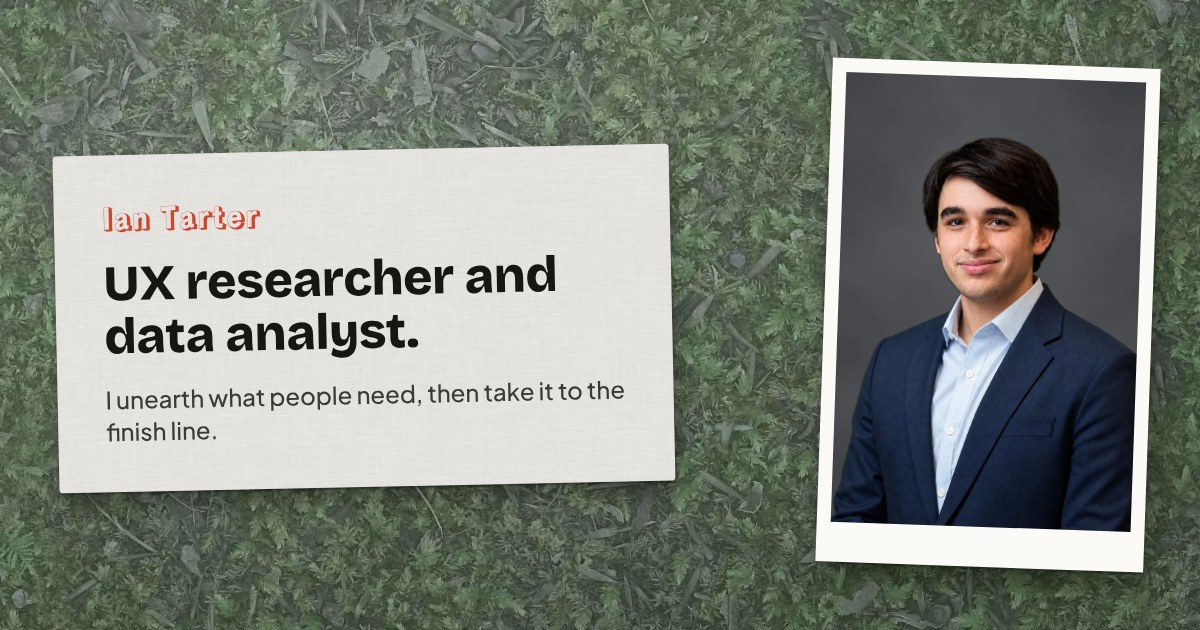
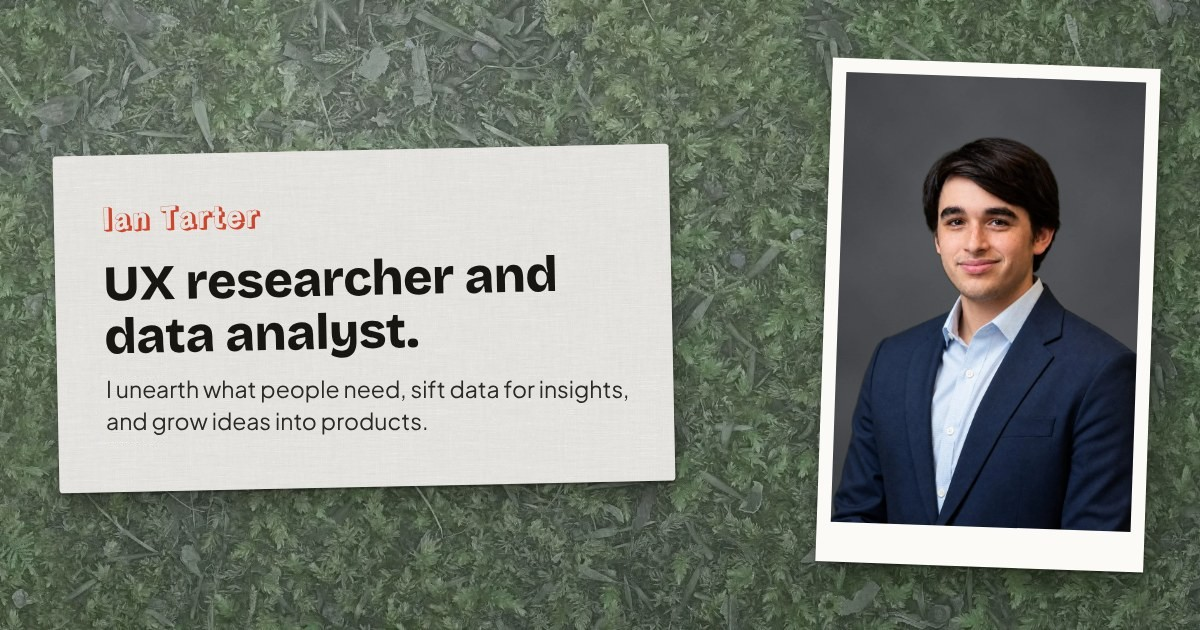
Homepage: clearer career copy, phone badge fit, skills card lines (#25)
* Homepage copy: concrete tagline, accomplishment-first About and Experience lines

Tagline now links research, data and evidence-based decisions. About and
Experience lead with outcomes already on record (300+ participants, Kyoto
full study, Monte Carlo simulation). Trimmed redundant wording. Case-study
pages untouched.

Claude-Session: https://claude.ai/code/session_01PnSu5yoinqYPUHPg7qkA5p

* Homepage copy: restore every task Ian listed; add new facts only beside them

Claude-Session: https://claude.ai/code/session_01PnSu5yoinqYPUHPg7qkA5p

* Homepage copy: Ian's answers (Yale, conflict-minimizing staffing model, working My Offset); tighter About

Claude-Session: https://claude.ai/code/session_01PnSu5yoinqYPUHPg7qkA5p

* Phone ID badges: tighter insides so full Experience lines fit at 360px and up

Same CR80 badge shape; smaller band and text padding under 460px wide.

Claude-Session: https://claude.ai/code/session_01PnSu5yoinqYPUHPg7qkA5p

* Hero tagline: unearth, sift, grow (Ian's wording)

Claude-Session: https://claude.ai/code/session_01PnSu5yoinqYPUHPg7qkA5p

* Share image: new tagline (unearth, sift, grow)

Claude-Session: https://claude.ai/code/session_01PnSu5yoinqYPUHPg7qkA5p

* Hero line 1: UX researcher and data analyst.

Claude-Session: https://claude.ai/code/session_01PnSu5yoinqYPUHPg7qkA5p

* About: drop facts the Experience badges already show

Claude-Session: https://claude.ai/code/session_01PnSu5yoinqYPUHPg7qkA5p
[…]

Changed region(s): [[0.0925, 0.6032, 0.5242, 0.7238]]

diff --git a/index.html b/index.html
@@ -4,13 +4,13 @@
 <meta charset="utf-8">
 <meta name="viewport" content="width=device-width, initial-scale=1">
 <title>Ian Tarter: UX Researcher and Data Analyst</title>
-<meta name="description" content="UX researcher and data analyst. I unearth what people need, then take it to the finish line. Open to full-time UX research and data roles, fall 2027.">
+<meta name="description" content="UX researcher and data analyst. I unearth what people need, sift data for insights, and grow ideas into products. Open to full-time UX research and data roles, fall 2027.">
 <link rel="canonical" href="https://iantarter.com/">
 <meta property="og:type" content="website">
 <meta property="og:title" content="Ian Tarter">
-<meta property="og:description" content="UX researcher and data analyst. I unearth what people need, then take it to the finish line. Open to full-time UX research and data roles, fall 2027.">
+<meta property="og:description" content="UX researcher and data analyst. I unearth what people need, sift data for insights, and grow ideas into products. Open to full-time UX research and data roles, fall 2027.">
 <meta property="og:url" content="https://iantarter.com/">
-<meta property="og:image" content="https://iantarter.com/assets/img/og/og-home.jpg">
+<meta property="og:image" content="https://iantarter.com/assets/img/og/og-home.jpg?v=3">
 <meta property="og:image:width" content="1200">
 <meta property="og:image:height" content="630">
 <meta name="twitter:card" content="summary_large_image">
@@ -22,7 +22,7 @@
 <link rel="preconnect" href="https://fonts.gstatic.com" crossorigin>
 <link rel="stylesheet" href="https://fonts.googleapis.com/css2?family=Bricolage+Grotesque:opsz,wght@12..96,300..800&family=Plus+Jakarta+Sans:ital,wght@0,300..800;1,300..800&family=Rampart+One&display=swap">
 <link rel="stylesheet" href="assets/site.css?v=20261013u">
-<link rel="stylesheet" href="assets/dir-i.css?v=20261109d">
+<link rel="stylesheet" href="assets/dir-i.css?v=20261111a">
 <!-- the ground fetched first, so it is usually there for the first frame -->
 <link rel="preload" as="image" href="assets/tex/moss-quiet-2k.webp" fetchpriority="high">
 <link rel="preload" as="image" href="assets/tex/canopy-shade-L.webp" fetchpriority="high">
@@ -83,21 +83,21 @@
 <main class="i-scene" id="main">
  <section class="s-hero i-hero">
   <div class="i-name lay lay-name"><h1 class="font-wait">Ian Tarter</h1></div>
-  <article class="card lay c-intro"><div class="cf"><p class="c-pitch"><span class="c-role">UX researcher, data analyst.</span> <span class="c-tag">I unearth what people need, then take it to the finish line.</span></p><div class="s-actions"><a class="s-btn primary" href="resume.pdf">View my resume</a><a class="s-btn" href="mailto:itsian123@gmail.com">Email me</a></div></div></article>
+  <article class="card lay c-intro"><div class="cf"><p class="c-pitch"><span class="c-role">UX researcher and data analyst.</span> <span class="c-tag">I unearth what people need, sift data for insights,<br> <span style="white-space:nowrap">and grow ideas into products.</span></span></p><div class="s-actions"><a class="s-btn primary" href="resume.pdf">View my resume</a><a class="s-btn" href="mailto:itsian123@gmail.com">Email me</a></div></div></article>
   <article class="card lay c-me"><div class="cf"><div class="c-art art-me"><img src="assets/img/headshot.webp?v=3" alt="Ian Tarter"></div><p class="c-name">Ian Tarter</p><p class="c-type">Carnegie Mellon MHCI, 2027</p></div></article>
  </section>
  
  <h2 class="i-label" id="work">Case studies</h2>
  <section class="i-row i-cases"><div class="phone floor-phone no-grass lay" role="img" aria-label="The EXACT app measuring a vertical jump"><img src="assets/img/exact-capture-vertical-jump.webp" alt=""></div>
-  <article class="case k1 d-phone"><div class="cf"><p class="c-type">EXACT Sports, 2026</p><h3><a class="c-link" href="work/exact-sports/">Reimagining the Combine</a></h3><p class="c-text">How interviews with coaches helped me build an AR app that replaces pen-and-paper testing at athletic events.</p><a class="c-more" href="work/exact-sports/" tabindex="-1" aria-hidden="true">Read the case study</a><ul class="c-tokens" aria-label="Methods"><li><svg viewBox="0 0 24 24" aria-hidden="true" focusable="false"><path d="M3 5h12v8H8l-4 3v-3H3z" fill="none" stroke="currentColor" stroke-width="2" stroke-linecap="round" stroke-linejoin="round"/><path d="M17 9h4v8h-1v3l-4-3h-5v-2" fill="none" stroke="currentColor" stroke-width="2" stroke-linecap="round" stroke-linejoin="round"/></svg><span>Coach interviews</span></li><li><svg viewBox="0 0 24 24" aria-hidden="true" focusable="false"><rect x="6" y="2" width="12" height="20" rx="2" fill="none" stroke="currentColor" stroke-width="2" stroke-linecap="round" stroke-linejoin="round"/><path d="M9 9l2 2 4-4M10 18h4" fill="none" stroke="currentColor" stroke-width="2" stroke-linecap="round" stroke-linejoin="round"/></svg><span>iOS + AR build</span></li><li><svg viewBox="0 0 24 24" aria-hidden="true" focusable="false"><circle cx="11" cy="11" r="7" fill="none" stroke="currentColor" stroke-width="2" stroke-linecap="round" stroke-linejoin="round"/><path d="M16 16l5 5M8 11l2 2 4-4" fill="none" stroke="currentColor" stroke-width="2" stroke-linecap="round" stroke-linejoin="round"/></svg><span>Usability tests</span></li></ul></div></article>
-  <article class="card lay case k2 d-sheet"><div class="cf"><div class="c-art art-lab c-deck"><img src="assets/img/cards/dialect-work-sheet.webp" alt="Workshop prompt sheet: Work. How does our workload shape who we are? What do our conversations at the workplace look like? Each question is also written in Japanese." width="939" height="574" loading="eager" decoding="async"></div><p class="c-type">Embodied Cognition Lab, 2025–26</p><h3><a class="c-link" href="work/embodied-cognition/">An Unorthodox Approach to Language Learning</a></h3><p class="c-text">How I worked to help design and pilot a role-playing workshop to help language learners get comfortable making mistakes.</p><a class="c-more" href="work/embodied-cognition/" tabindex="-1" aria-hidden="true">Read the case study</a><ul class="c-tokens" aria-label="Methods"><li><svg viewBox="0 0 24 24" aria-hidden="true" focusable="false"><circle cx="12" cy="12" r="5" fill="none" stroke="currentColor" stroke-width="2" stroke-linecap="round" stroke-linejoin="round"/><circle cx="12" cy="3.5" r="1.8" fill="none" stroke="currentColor" stroke-width="2" stroke-linecap="round" stroke-linejoin="round"/><circle cx="12" cy="20.5" r="1.8" fill="none" stroke="currentColor" stroke-width="2" stroke-linecap="round" stroke-linejoin="round"/><circle cx="3.5" cy="12" r="1.8" fill="none" stroke="currentColor" stroke-width="2" stroke-linecap="round" stroke-linejoin="round"/><circle cx="20.5" cy="12" r="1.8" fill="none" stroke="currentColor" stroke-width="2" stroke-linecap="round" stroke-linejoin="round"/></svg><span>Workshop design</span></li><li><svg viewBox="0 0 24 24" aria-hidden="true" focusable="false"><rect x="4" y="3" width="16" height="18" rx="2" fill="none" stroke="currentColor" stroke-width="2" stroke-linecap="round" stroke-linejoin="round"/><path d="M7 8l1.5 1.5L11 7M7 14l1.5 1.5L11 13M13 8.5h4M13 14.5h4" fill="none" stroke="currentColor" stroke-width="2" stroke-linecap="round" stroke-linejoin="round"/></svg><span>Pre/post surveys</span></li><li><svg viewBox="0 0 24 24" aria-hidden="true" focusable="false"><path d="M5 21V4M5 4h12l-3 4 3 4H5" fill="none" stroke="currentColor" stroke-width="2" stroke-linecap="round" stroke-linejoin="round"/></svg><span>Pilot study</span></li></ul></div></article>
-  <article class="card lay case k3 d-fig"><div class="cf"><div class="c-art art-birds c-deck"><img src="assets/img/cards/birds-felt-understanding.webp" alt="Chart: felt understanding when facing sexual minority stress is higher when the close other also identifies as a sexual minority." width="558" height="519" loading="eager" decoding="async"></div><p class="c-type">BIRDS Lab, 2025–26</p><h3><a class="c-link" href="work/birds-lab/">Unpacking Allyship</a></h3><p class="c-text">What I took away from analyzing and running studies about the nature of how to best help people recovering from minority stress.</p><a class="c-more" href="work/birds-lab/" tabindex="-1" aria-hidden="true">Read the case study</a><ul class="c-tokens" aria-label="Methods"><li><svg viewBox="0 0 24 24" aria-hidden="true" focusable="false"><path d="M4 20l4-1 11-11-3-3L5 16z" fill="none" stroke="currentColor" stroke-width="2" stroke-linecap="round" stroke-linejoin="round"/><path d="M14 7l3 3" fill="none" stroke="currentColor" stroke-width="2" stroke-linecap="round" stroke-linejoin="round"/></svg><span>Survey build</span></li><li><svg viewBox="0 0 24 24" aria-hidden="true" focusable="false"><path d="M4 5h16M4 10h10M4 15h13M4 20h8" fill="none" stroke="currentColor" stroke-width="2" stroke-linecap="round" stroke-linejoin="round"/><path d="M15 9h6v3h-6z" fill="currentColor" stroke="none" opacity=".55"/></svg><span>Qual coding</span></li><li><svg viewBox="0 0 24 24" aria-hidden="true" focusable="false"><path d="M4 20h16M7 20v-6M12 20V8M17 20v-9" fill="none" stroke="currentColor" stroke-width="2" stroke-linecap="round" stroke-linejoin="round"/></svg><span>Data viz</span></li></ul></div></article>
+  <article class="case k1 d-phone"><div class="cf"><p class="c-type">EXACT Sports, 2026</p><h3><a class="c-link" href="work/exact-sports/">Reimagining the Combine</a></h3><p class="c-text">How interviews with coaches shaped the AR app I built to replace pen-and-paper testing at athletic events, now in beta.</p><a class="c-more" href="work/exact-sports/" tabindex="-1" aria-hidden="true">Read the case study</a><ul class="c-tokens" aria-label="Methods"><li><svg viewBox="0 0 24 24" aria-hidden="true" focusable="false"><path d="M3 5h12v8H8l-4 3v-3H3z" fill="none" stroke="currentColor" stroke-width="2" stroke-linecap="round" stroke-linejoin="round"/><path d="M17 9h4v8h-1v3l-4-3h-5v-2" fill="none" stroke="currentColor" stroke-width="2" stroke-linecap="round" stroke-linejoin="round"/></svg><span>Coach interviews</span></li><li><svg viewBox="0 0 24 24" aria-hidden="true" focusable="false"><rect x="6" y="2" width="12" height="20" rx="2" fill="none" stroke="currentColor" stroke-width="2" stroke-linecap="round" stroke-linejoin="round"/><path d="M9 9l2 2 4-4M10 18h4" fill="none" stroke="currentColor" stroke-width="2" stroke-linecap="round" stroke-linejoin="round"/></svg><span>iOS + AR build</span></li><li><svg viewBox="0 0 24 24" aria-hidden="true" focusable="false"><circle cx="11" cy="11" r="7" fill="none" stroke="currentColor" stroke-width="2" stroke-linecap="round" stroke-linejoin="round"/><path d="M16 16l5 5M8 11l2 2 4-4" fill="none" stroke="currentColor" stroke-width="2" stroke-linecap="round" stroke-linejoin="round"/></svg><span>Usability tests</span></li></ul></div></article>
+  <article class="card lay case k2 d-sheet"><div class="cf"><div class="c-art art-lab c-deck"><img src="assets/img/cards/dialect-work-sheet.webp" alt="Workshop prompt sheet: Work. How does our workload shape who we are? What do our conversations at the workplace look like? Each question is also written in Japanese." width="939" height="574" loading="eager" decoding="async"></div><p class="c-type">Embodied Cognition Lab, 2025–26</p><h3><a class="c-link" href="work/embodied-cognition/">An Unorthodox Approach to Language Learning</a></h3><p class="c-text">How I helped design and pilot a role-playing workshop that gets language learners comfortable making mistakes, since run as a full study by a Kyoto University lab.</p><a class="c-more" href="work/embodied-cognition/" tabindex="-1" aria-hidden="true">Read the case study</a><ul class="c-tokens" aria-label="Methods"><li><svg viewBox="0 0 24 24" aria-hidden="true" focusable="false"><circle cx="12" cy="12" r="5" fill="none" stroke="currentColor" stroke-width="2" stroke-linecap="round" stroke-linejoin="round"/><circle cx="12" cy="3.5" r="1.8" fill="none" stroke="currentColor" stroke-width="2" stroke-linecap="round" stroke-linejoin="round"/><circle cx="12" cy="20.5" r="1.8" fill="none" stroke="currentColor" stroke-width="2" stroke-linecap="round" stroke-linejoin="round"/><circle cx="3.5" cy="12" r="1.8" fill="none" stroke="currentColor" stroke-width="2" stroke-linecap="round" stroke-linejoin="round"/><circle cx="20.5" cy="12" r="1.8" fill="none" stroke="currentColor" stroke-width="2" stroke-linecap="round" stroke-linejoin="round"/></svg><span>Workshop design</span></li><li><svg viewBox="0 0 24 24" aria-hidden="true" focusable="false"><rect x="4" y="3" width="16" height="18" rx="2" fill="none" stroke="currentColor" stroke-width="2" stroke-linecap="round" stroke-linejoin="round"/><path d="M7 8l1.5 1.5L11 7M7 14l1.5 1.5L11 13M13 8.5h4M13 14.5h4" fill="none" stroke="currentColor" stroke-width="2" stroke-linecap="round" stroke-linejoin="round"/></svg><span>Pre/post surveys</span></li><li><svg viewBox="0 0 24 24" aria-hidden="true" focusable="false"><path d="M5 21V4M5 4h12l-3 4 3 4H5" fill="none" stroke="currentColor" stroke-width="2" stroke-linecap="round" stroke-linejoin="round"/></svg><span>Pilot study</span></li></ul></div></article>
+  <article class="card lay case k3 d-fig"><div class="cf"><div class="c-art art-birds c-deck"><img src="assets/img/cards/birds-felt-understanding.webp" alt="Chart: felt understanding when facing sexual minority stress is higher when the close other also identifies as a sexual minority." width="558" height="519" loading="eager" decoding="async"></div><p class="c-type">BIRDS Lab, 2025–26</p><h3><a class="c-link" href="work/birds-lab/">Unpacking Allyship</a></h3><p class="c-text">What I took away from analyzing and running studies of 300+ people on how best to support someone facing minority stress.</p><a class="c-more" href="work/birds-lab/" tabindex="-1" aria-hidden="true">Read the case study</a><ul class="c-tokens" aria-label="Methods"><li><svg viewBox="0 0 24 24" aria-hidden="true" focusable="false"><path d="M4 20l4-1 11-11-3-3L5 16z" fill="none" stroke="currentColor" stroke-width="2" stroke-linecap="round" stroke-linejoin="round"/><path d="M14 7l3 3" fill="none" stroke="currentColor" stroke-width="2" stroke-linecap="round" stroke-linejoin="round"/></svg><span>Survey build</span></li><li><svg viewBox="0 0 24 24" aria-hidden="true" focusable="false"><path d="M4 5h16M4 10h10M4 15h13M4 20h8" fill="none" stroke="currentColor" stroke-width="2" stroke-linecap="round" stroke-linejoin="round"/><path d="M15 9h6v3h-6z" fill="currentColor" stroke="none" opacity=".55"/></svg><span>Qual coding</span></li><li><svg viewBox="0 0 24 24" aria-hidden="true" focusable="false"><path d="M4 20h16M7 20v-6M12 20V8M17 20v-9" fill="none" stroke="currentColor" stroke-width="2" stroke-linecap="round" stroke-linejoin="round"/></svg><span>Data viz</span></li></ul></div></article>
   <article class="card lay case k4 d-fig d-cap"><div class="cf"><div class="c-art c-deck"><img src="assets/img/cards/capstone-fun-by-trial.webp" alt="Chart from my capstone: fun ratings across three trials of rock-paper-scissors, shown separately for the Average, High and Increasing conditions." width="656" height="468" loading="eager" decoding="async"></div><h3><a class="c-link" href="work/having-fun/">Beyond Predictive Processing in Play</a></h3><a class="c-more" href="work/having-fun/" tabindex="-1" aria-hidden="true">Read the case study</a><ul class="c-tokens" aria-label="Methods"><li><span>Literature review</span></li><li><span>Controlled experiment</span></li><li><span>Bayesian analysis</span></li></ul></div></article>
   <article class="card lay case k5 d-fig d-aff"><div class="cf"><div class="c-art c-deck"><img src="assets/img/cards/bias-affinity.webp" alt="Affinity diagram from Figma: notes grouped under Regulation and frameworks, Risk detection, Bias and unfairness, Opaque data, Human with AI, What AI is bad at, and Human error, rolling up into two insights about human and AI error." width="605" height="540" loading="eager" decoding="async"></div><h3><a class="c-link" href="work/prompt-bias/">Mitigating AI Prompt Bias</a></h3><a class="c-more" href="work/prompt-bias/" tabindex="-1" aria-hidden="true">Read the case study</a><ul class="c-tokens" aria-label="Methods"><li><span>Affinity diagramming</span></li><li><span>Usability testing</span></li><li><span>Interviews</span></li></ul></div></article>
  </section>
  <h2 class="i-label" id="about">About</h2>
- <section class="i-row i-about"><article class="card lay c-about"><div class="cf"><p class="c-text">I'm finishing Carnegie Mellon's Master of Human-Computer Interaction in August 2027. Before that, I studied Cognitive Science at Carleton College, with a minor in Data Science and Statistics. I worked in three labs there, immersing myself in research about embodied cognition, relationship science, linguistics, and produced several studies and papers in collaboration with researchers from Kyoto University, Northwestern, University of Chicago, Wellesley, and Carleton College.</p><p class="c-text">I have also been designing board games for over a decade. My first game with a publisher, <i>The Daily Weather</i> from Button Shy Games, raised over $29,000 from 1,800+ backers on Kickstarter.</p><p class="c-text c-now"><b>Currently:</b> Building My Offset, a tool to mitigate environmental harm.<br>Also collaborating to build products that respond to AI harm, better track airport systems, and mitigate bias in first-time managers.</p></div></article></section><h2 class="i-label" id="exp">Experience</h2>
- <section class="i-row i-jobs"><article class="card lay job j1"><div class="cf"><p class="c-type">Summer 2026</p><h3>UX Engineer Intern</h3><p class="c-org">EXACT Sports</p><p class="c-text">Field research with coaches, then designed, built and tested an iPhone app that measures athletes with AR and computer vision.</p></div></article><article class="card lay job j2"><div class="cf"><p class="c-type">Summer 2026</p><h3>UX Intern</h3><p class="c-org">SayKid</p><p class="c-text">Designed, tested and built voice apps in Voiceflow for ToyBot, a learning toy that kids can have a conversation with.</p></div></article><article class="card lay job j3"><div class="cf"><p class="c-type">2025–26</p><h3>Research Assistant</h3><p class="c-org">BIRDS Lab</p><p class="c-text">Analyzed, designed, ran, and wrote about studies covering relationship science, with a focus on LGBTQ+ experience.</p></div></article><article class="card lay job j4"><div class="cf"><p class="c-type">2025–26</p><h3>Research Assistant</h3><p class="c-org">Embodied Cognition Lab</p><p class="c-text">Helped design a role-playing language workshop, ran pilots, led their feedback sessions, co-wrote research papers.</p></div></article><article class="card lay job j5"><div class="cf"><p class="c-type">2024–25</p><h3>R&amp;D Intern</h3><p class="c-org">WizKids</p><p class="c-text">Evaluated sell sheets, produced manufacturing spreadsheets, built company reports, prototyped and playtested upcoming products.</p></div></article><article class="card lay job j6"><div class="cf"><p class="c-type">Summer 2024</p><h3>Data &amp; Operations Intern</h3><p class="c-org">EXACT Sports</p><p class="c-text">Built a model to staff hundreds of camps, and found the recruiting channels behind a 13% rise in enrollment.</p></div></article></section>
+ <section class="i-row i-about"><article class="card lay c-about"><div class="cf"><p class="c-text">I'm finishing Carnegie Mellon's Master of Human-Computer Interaction in August 2027. Before that, I studied Cognitive Science at Carleton College, with a minor in Data Science and Statistics, and worked in three labs, contributing to several papers now in progress with researchers from Kyoto University, Northwestern, University of Chicago, Wellesley, Yale, and Carleton College.</p><p class="c-text">I have also been designing board games for over a decade. My first game with a publisher, <i>The Daily Weather</i> from Button Shy Games, raised over $29,000 from 1,800+ backers on Kickstarter.</p><p class="c-text c-now"><b>Currently:</b> Building My Offset, a working tool to mitigate environmental harm.<br>Also collaborating to build products that respond to AI harm, better track airport systems, and mitigate bias in first-time managers.</p></div></article></section><h2 class="i-label" id="exp">Experience</h2>
+ <section class="i-row i-jobs"><article class="card lay job j1"><div class="cf"><p class="c-type">Summer 2026</p><h3>UX Engineer Intern</h3><p class="c-org">EXACT Sports</p><p class="c-text">Field research with coaches, then designed, built and tested an iPhone app that measures athletes with AR and computer vision.</p></div></article><article class="card lay job j2"><div class="cf"><p class="c-type">Summer 2026</p><h3>UX Intern</h3><p class="c-org">SayKid</p><p class="c-text">Designed, tested and built voice apps in Voiceflow for ToyBot, a learning toy that kids can have a conversation with.</p></div></article><article class="card lay job j3"><div class="cf"><p class="c-type">2025–26</p><h3>Research Assistant</h3><p class="c-org">BIRDS Lab</p><p class="c-text">Analyzed, designed, ran, and wrote about studies of 300+ people covering relationship science, with a focus on LGBTQ+ experience.</p></div></article><article class="card lay job j4"><div class="cf"><p class="c-type">2025–26</p><h3>Research Assistant</h3><p class="c-org">Embodied Cognition Lab</p><p class="c-text">Helped design a role-playing language workshop, ran two pilots, led their feedback sessions, co-wrote research papers.</p></div></article><article class="card lay job j5"><div class="cf"><p class="c-type">2024–25</p><h3>R&amp;D Intern</h3><p class="c-org">WizKids</p><p class="c-text">Evaluated sell sheets, produced manufacturing spreadsheets, built company reports, prototyped and playtested upcoming products.</p></div></article><article class="card lay job j6"><div class="cf"><p class="c-type">Summer 2024</p><h3>Data &amp; Operations Intern</h3><p class="c-org">EXACT Sports</p><p class="c-text">Built a model to staff hundreds of camps while minimizing conflicts, and found the recruiting channels behind a 13% rise in enrollment.</p></div></article></section>
  <h2 class="i-label" id="skills">Skills</h2>
  <section class="i-row i-skills"><div class="index lay"><dl>
   <div><dt>Research</dt><dd>Interviews, field observation, usability testing, surveys, experimental design, qualitative coding, A/B&nbsp;testing</dd></div>

diff --git a/assets/dir-i.css b/assets/dir-i.css
@@ -1437,3 +1437,14 @@ li.mock::before, label.mock::before, .c-pdf.mock::before, .c-now.mock::before { 
 .x-i.x-i .rr-scatter .rr-tile.lay { width: 106px; height: 106px; }
 @media (min-width: 701px) { .x-i.x-i.x-i.games-i .g-grid:has(.g-rr) { row-gap: 104px; } }
 @media (max-width: 700px) { .x-i.x-i.x-i.games-i .g-grid:has(.g-rr) { grid-auto-rows: auto; } .x-i.x-i.games-i .g-grid > .g-rr { margin-top: 64px; } }
+/* Phone ID badges (2026-11-11): same CR80 shape, tighter insides so the full line fits on narrow screens */
+@media (max-width: 460px) {
+  .x-i.x-i .job > .cf { padding: 0 16px 12px; gap: 2px; }
+  .x-i.x-i .job .c-org { margin: 0 -16px 6px; padding: 21px 16px 7px; }
+  .x-i.x-i .job .c-org::before { top: 7px; }
+  .x-i.x-i .job .c-text { margin-top: 4px; line-height: 1.4; }
+}
+@media (max-width: 380px) { .x-i.x-i .job .c-org { padding-top: 18px; margin-bottom: 4px; } .x-i.x-i .job .c-org::before { top: 6px; } }
+/* Skills index card (2026-11-11): one font size in the list so every text line is exactly one rule tall and sits on its line */
+.x-i.x-i .index dl { font-size: var(--t17, 17px); position: relative; top: calc(var(--rule) / 2 - 14px); } /* baseline sits about 4px above each rule at any card scale */
+.x-i.x-i .index dt, .x-i.x-i .index dd { font-size: inherit; line-height: 0; } /* the bold face has different metrics; zero line-height keeps every line exactly one rule */
